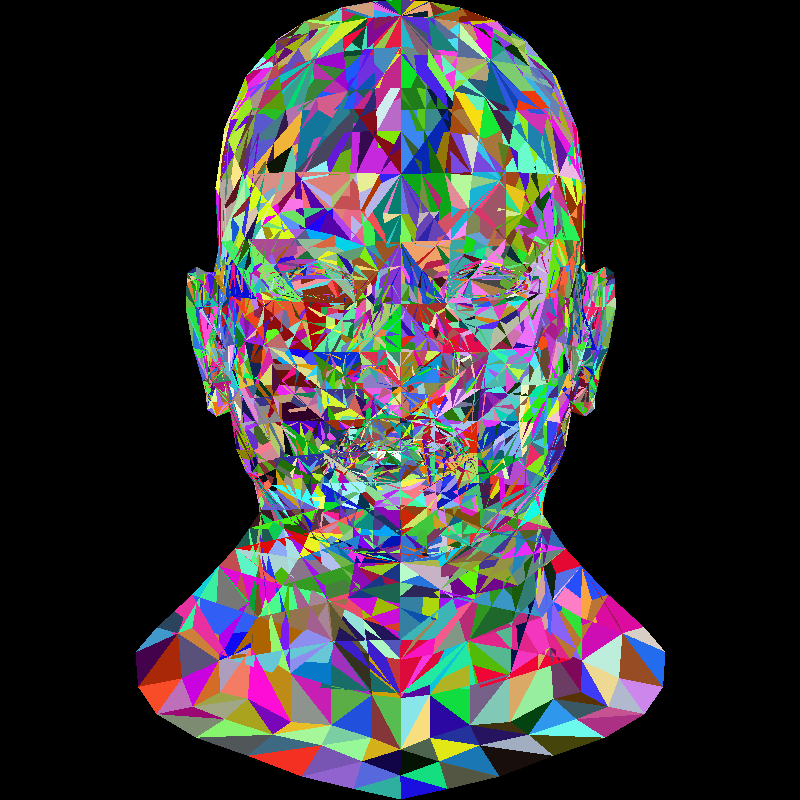
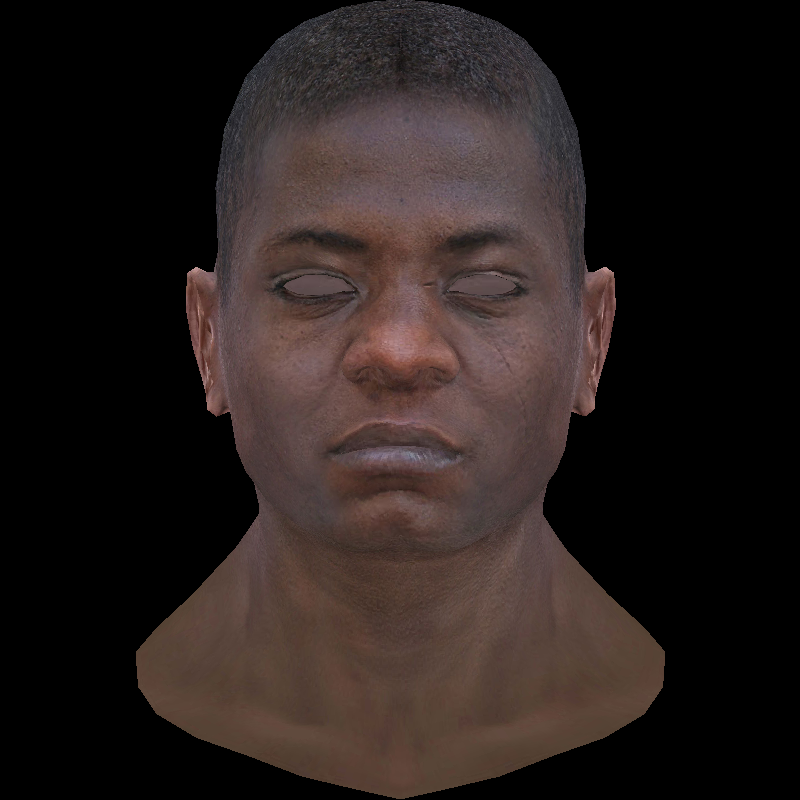
纹理

diff --git a/TinyRenderer/main.cpp b/TinyRenderer/main.cpp
@@ -6,10 +6,23 @@
 #include "Model.h"
 #include "geometry.h"
 #include "FreeImage.h"
+#include "ourgl.h"
 using namespace std;
 
 const int WIDTH = 800;
 const int HEIGHT = 800 ;
+
+//用于保存渲染中的一些状态
+struct Shader : IShader{
+
+    const Model &model;
+
+    Shader(const Model &model):model(model){} 
+
+    virtual Vec4f vertex(const int iface, const int nthvert){
+        
+    }
+};
 
 FIBITMAP *screen = NULL;
 float ZBuffer[WIDTH][HEIGHT]; //只是记录，只要一一对应即可
@@ -18,6 +31,8 @@ RGBQUAD COLOR_WHITE = {255,255,255,255};
 RGBQUAD COLOR_RED = {0,0,255,255};
 
 vector<Vec3f> drawPts;
+
+    Model model("obj/african_head.obj");
 
 void init(){
     screen = FreeImage_Allocate(WIDTH, HEIGHT, 32);
@@ -29,7 +44,7 @@ void init(){
     }
     for(int i=0;i<WIDTH;i++){
         for(int j=0;j<HEIGHT;j++){
-            ZBuffer[i][j] = FLT_MAX;
+            ZBuffer[i][j] = -FLT_MAX;
         }
     }
 }
@@ -63,10 +78,6 @@ void drawLine(float x1, float y1, float x2, float y2, RGBQUAD color){
         swap(x2,y2);
         steep = true;
     }
-    // if(x1 > WIDTH || x2 > WIDTH || y1 > WIDTH || y2 > WIDTH){
-    //     printf("error");
-    //     return ;
-    // }
     if(x1 > x2){
         swap(x1,x2);
         swap(y1,y2);
@@ -97,12 +108,17 @@ void drawTriangle(const vector<Vec3f> &pts, RGBQUAD color = COLOR_RED){
     for(int x = left;x<=right;x++){
         for(int y=down;y<=up;y++){
             Vec3f bc = barycentric(pts,Vec3f(x,y,0));
-            if(bc.x < 0 || bc.y < 0 || bc.z < 0 || ZBuffer[x][y] < bc.z){
+            float d = bc.x * pts[0].z + bc.y * pts[1].z + bc.z * pts[2].z;
+            if(bc.x < 0 || bc.y < 0 || bc.z < 0 || ZBuffer[x][y] > d){
                 continue;
             }
-            ZBuffer[x][y] = bc.z;
+            ZBuffer[x][y] = d;
             // 决定这一点的颜色
-            
+            float tx = bc.x * drawPts[0].x + bc.y * drawPts[1].x + bc.z * drawPts[2].x; 
+            float ty = bc.x * drawPts[0].y + bc.y * drawPts[1].y + bc.z * drawPts[2].y;
+            color = model.getVtColor(tx,ty);
+            // color = model.getVtColor(drawPts[0].x,drawPts[0].y);
+            // color = model.getVtColor(x,y);
             drawPoint(x,y,color);
         }
     }
@@ -132,26 +148,23 @@ int main(int argc, char const *argv[])
     // drawTriangle(p2);
     // drawTriangle(p3);
 
-    Model model("obj/african_head.obj");
+
     for(int i=0;i<model.nfaces;i++){
         auto pts = model.getFace(i);
-        drawPts = pts;
-        // cout<<i<<endl;
+        drawPts = model.getVt(i);
         for(int j=0;j<3;j++){
             pts[j].x = (pts[j].x + 1) *   WIDTH / 2;
             pts[j].y = (pts[j].y + 1) * WIDTH / 2;
-            // drawLine(pts[i].x,pts[i].y,pts[(i+1)%3].x,pts[(i+1)%3].y,COLOR_WHITE);
         }
-       
-        // for(int j=0;j<3;j++){
-        //     pts[j].x = (pts[j].x + 1) *   WIDTH / 2;
-        //     pts[j].y = (pts[j].y + 1) * WIDTH / 2;
-        //     drawLine(pts[j].x,pts[j].y,pts[(j+1)%3].x,pts[(j+1)%3].y,COLOR_WHITE);
-        // }
         drawTriangle(pts,RGBQUAD{rand()%255,rand()%255,rand()%255,255});
     }
 
-
+    //测试图像是否正常
+    // for(int i=0;i<WIDTH;i++){
+    //     for(int j=0;j<HEIGHT;j++){
+    //         drawPoint(i,j,model.getVtColor(i,j));
+    //     }
+    // }
 
     FreeImage_Save(FIF_PNG,screen,"test.png");
     system("Start test.png"); //打开图像

diff --git a/TinyRenderer/Model.cpp b/TinyRenderer/Model.cpp
@@ -35,6 +35,7 @@ Model::Model(const std::string &filename){
         }
     }
     in.close();
+    std::cout<<"vt"<<vts.size()<<std::endl;
     loadDiffuseTexture(filename);
 }
 
@@ -47,9 +48,29 @@ std::vector<Vec3f> Model::getFace(int i){
     return face;
 }
 
+std::vector<Vec3f> Model::getVt(int i){
+    std::vector<Vec3f> face;
+    for(int j=0;j<3;j++){
+        Vec3f vf = vts[faces[i][j][1] - 1];
+        face.push_back(vf);
+    }
+    return face;
+}
+
 void Model::loadDiffuseTexture(const std::string &filename){
     std::string fn = filename.substr(0,filename.size()-4);
     fn.append("_diffuse.png");
     std::cout<<fn<<std::endl;
     vtmap = FreeImage_Load(FIF_PNG,fn.c_str());
+}
+
+RGBQUAD Model::getVtColor(float x, float y){
+    RGBQUAD color; 
+    // int w = FreeImage_GetWidth(vtmap);
+    // int h = FreeImage_GetHeight(vtmap);
+    x = x * FreeImage_GetWidth(vtmap);
+    y = y * FreeImage_GetHeight(vtmap);
+    FreeImage_GetPixelColor(vtmap,(unsigned int)x,(unsigned int)y,&color);
+    color.rgbReserved = 255;
+    return color;
 }

diff --git a/TinyRenderer/Model.h b/TinyRenderer/Model.h
@@ -14,7 +14,9 @@ public:
     int nfaces;
     Model(const std::string &filename);
     std::vector<Vec3f> getFace(int i);
+    std::vector<Vec3f> getVt(int i);
     void loadDiffuseTexture(const std::string &filename);
+    RGBQUAD getVtColor(float x, float y);
     FIBITMAP *vtmap;
     
 private:

diff --git a/TinyRenderer/ourgl.h b/TinyRenderer/ourgl.h
@@ -1,0 +1,12 @@
+#ifndef __OURGL_H__
+#define __OURGL_H__
+
+#include "FreeImage.h"
+#include "geometry.h"
+
+struct IShader {
+    virtual Vec4f vertex(const int iface, const int nthvert) = 0;
+    virtual bool fragment(const Vec3f bar, RGBQUAD &color) = 0;
+};
+
+#endif

diff --git a/TinyRenderer/geometry.h b/TinyRenderer/geometry.h
@@ -61,5 +61,6 @@ class Mat{
 // typedef Vec<float,2> Vec2f;
 typedef Vec<3, int> Vec3i;
 typedef Vec<3, float> Vec3f;
+typedef Vec<4, float> Vec4f;
 
 #endif
